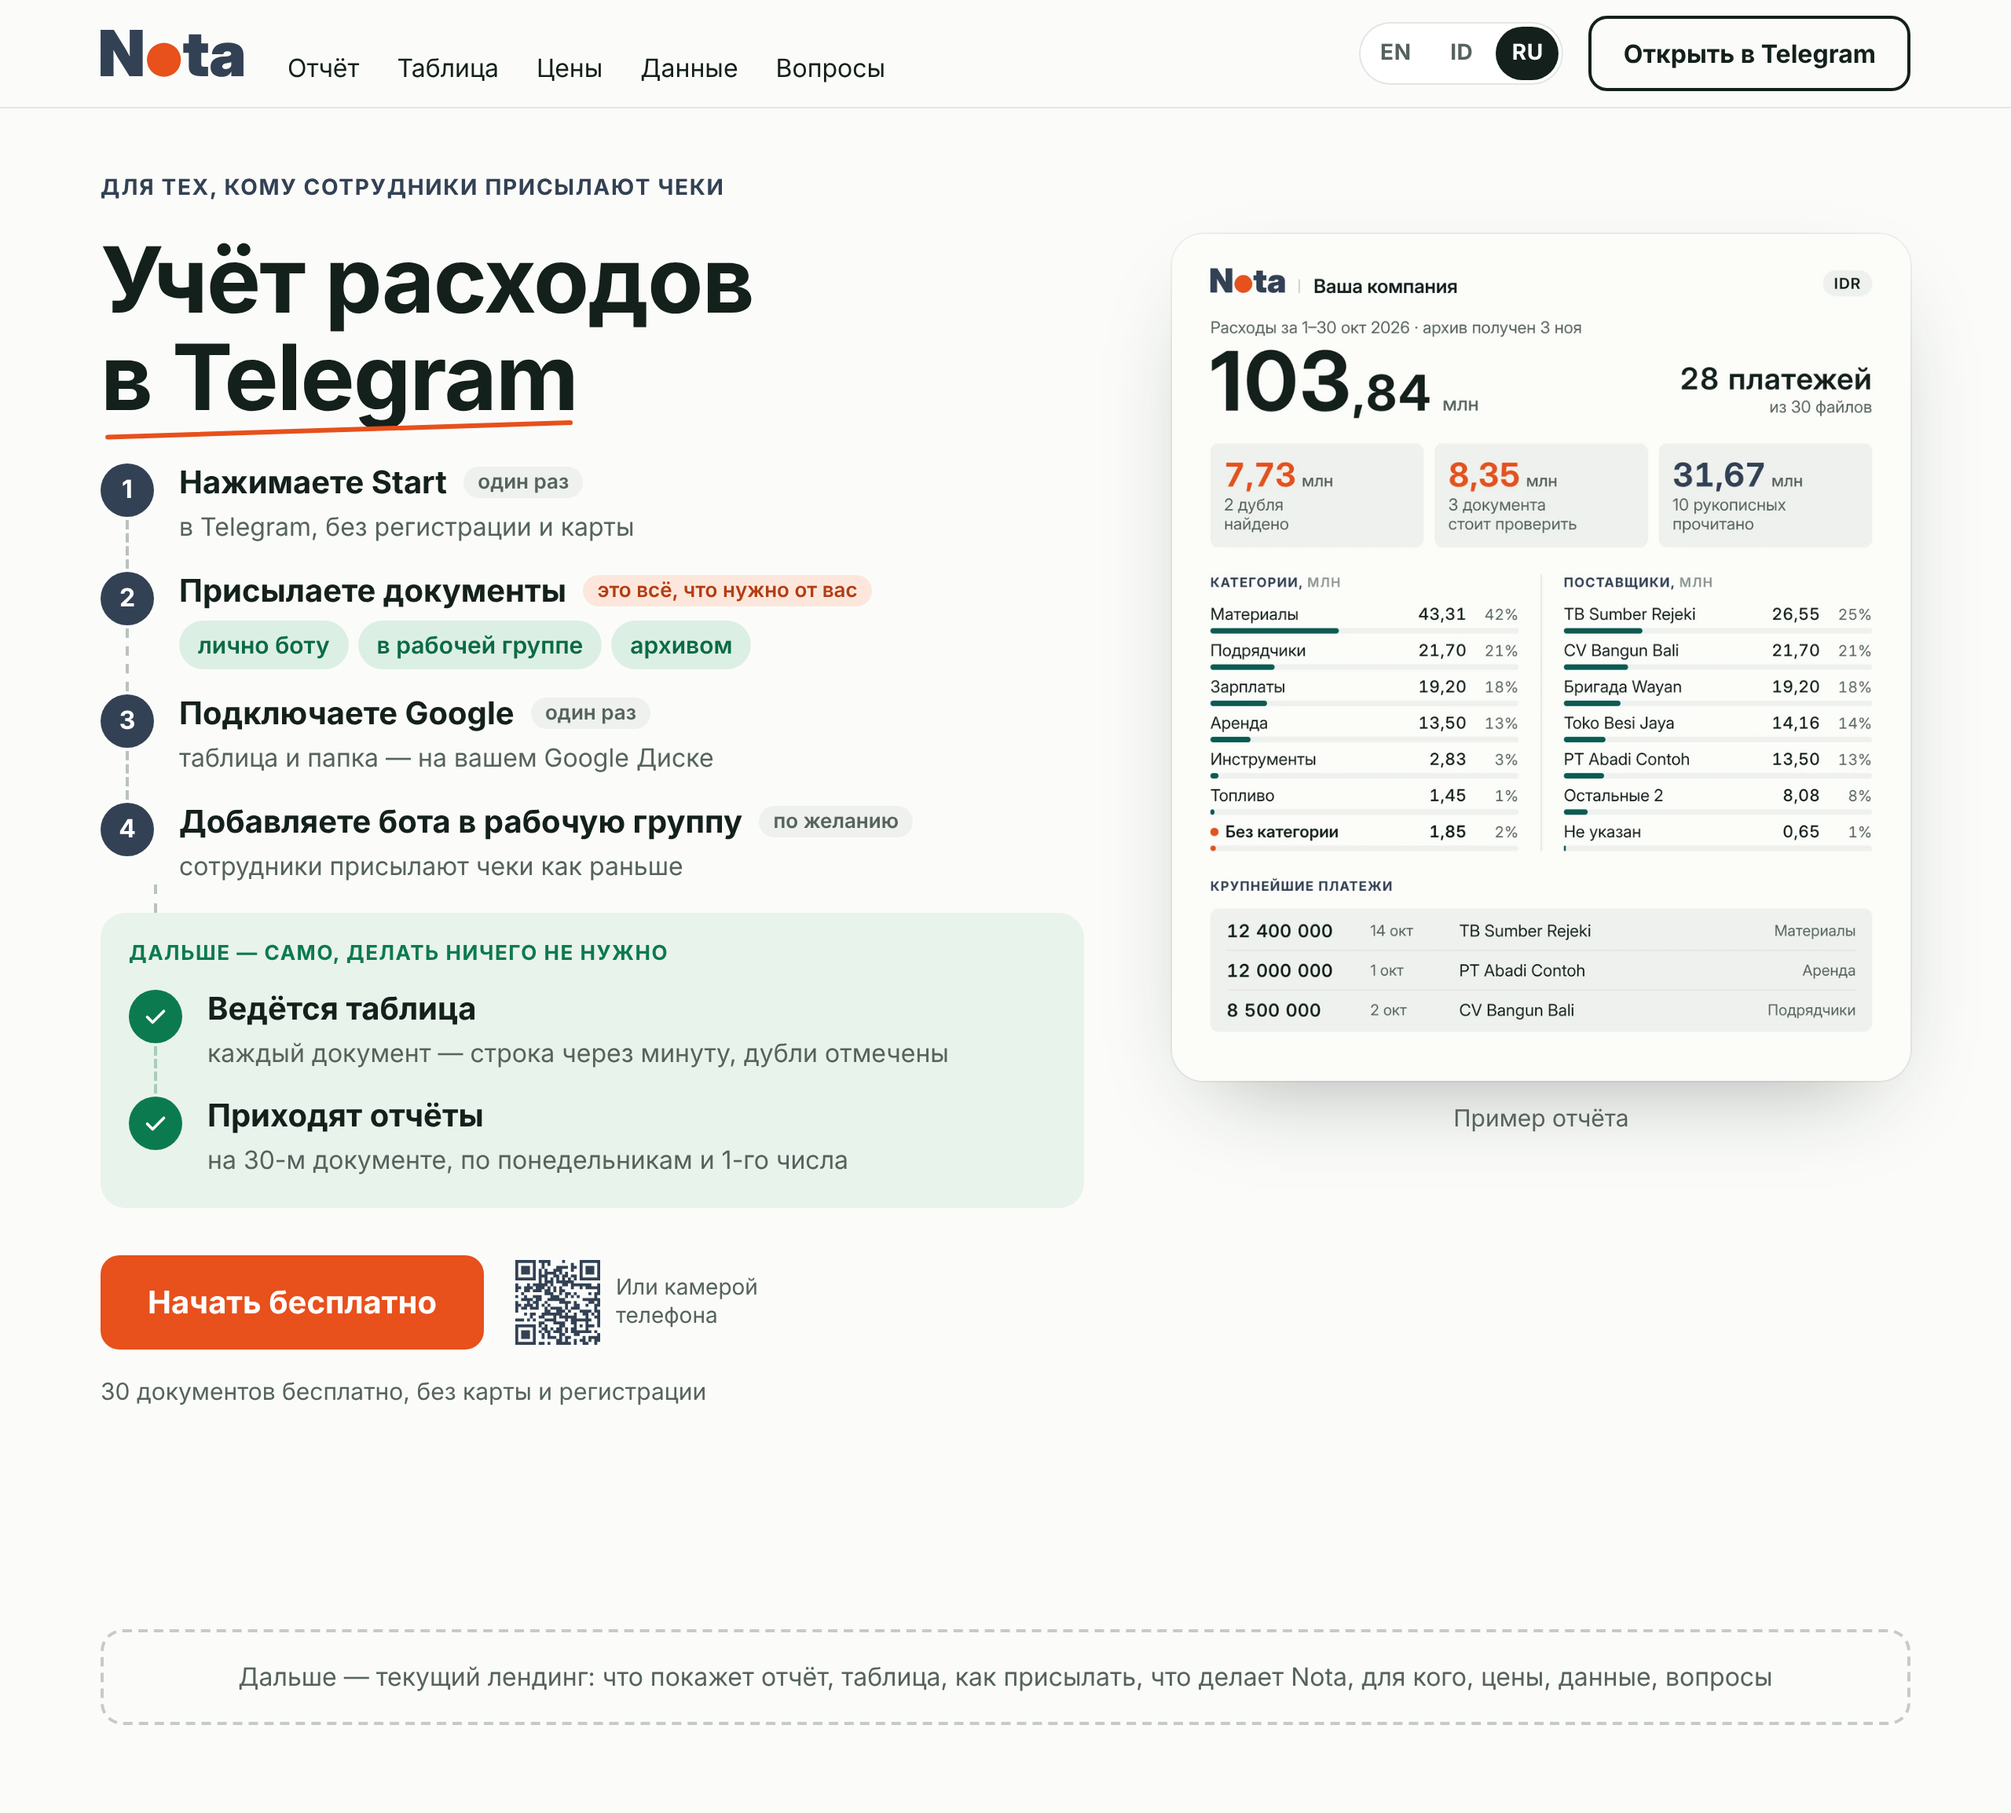
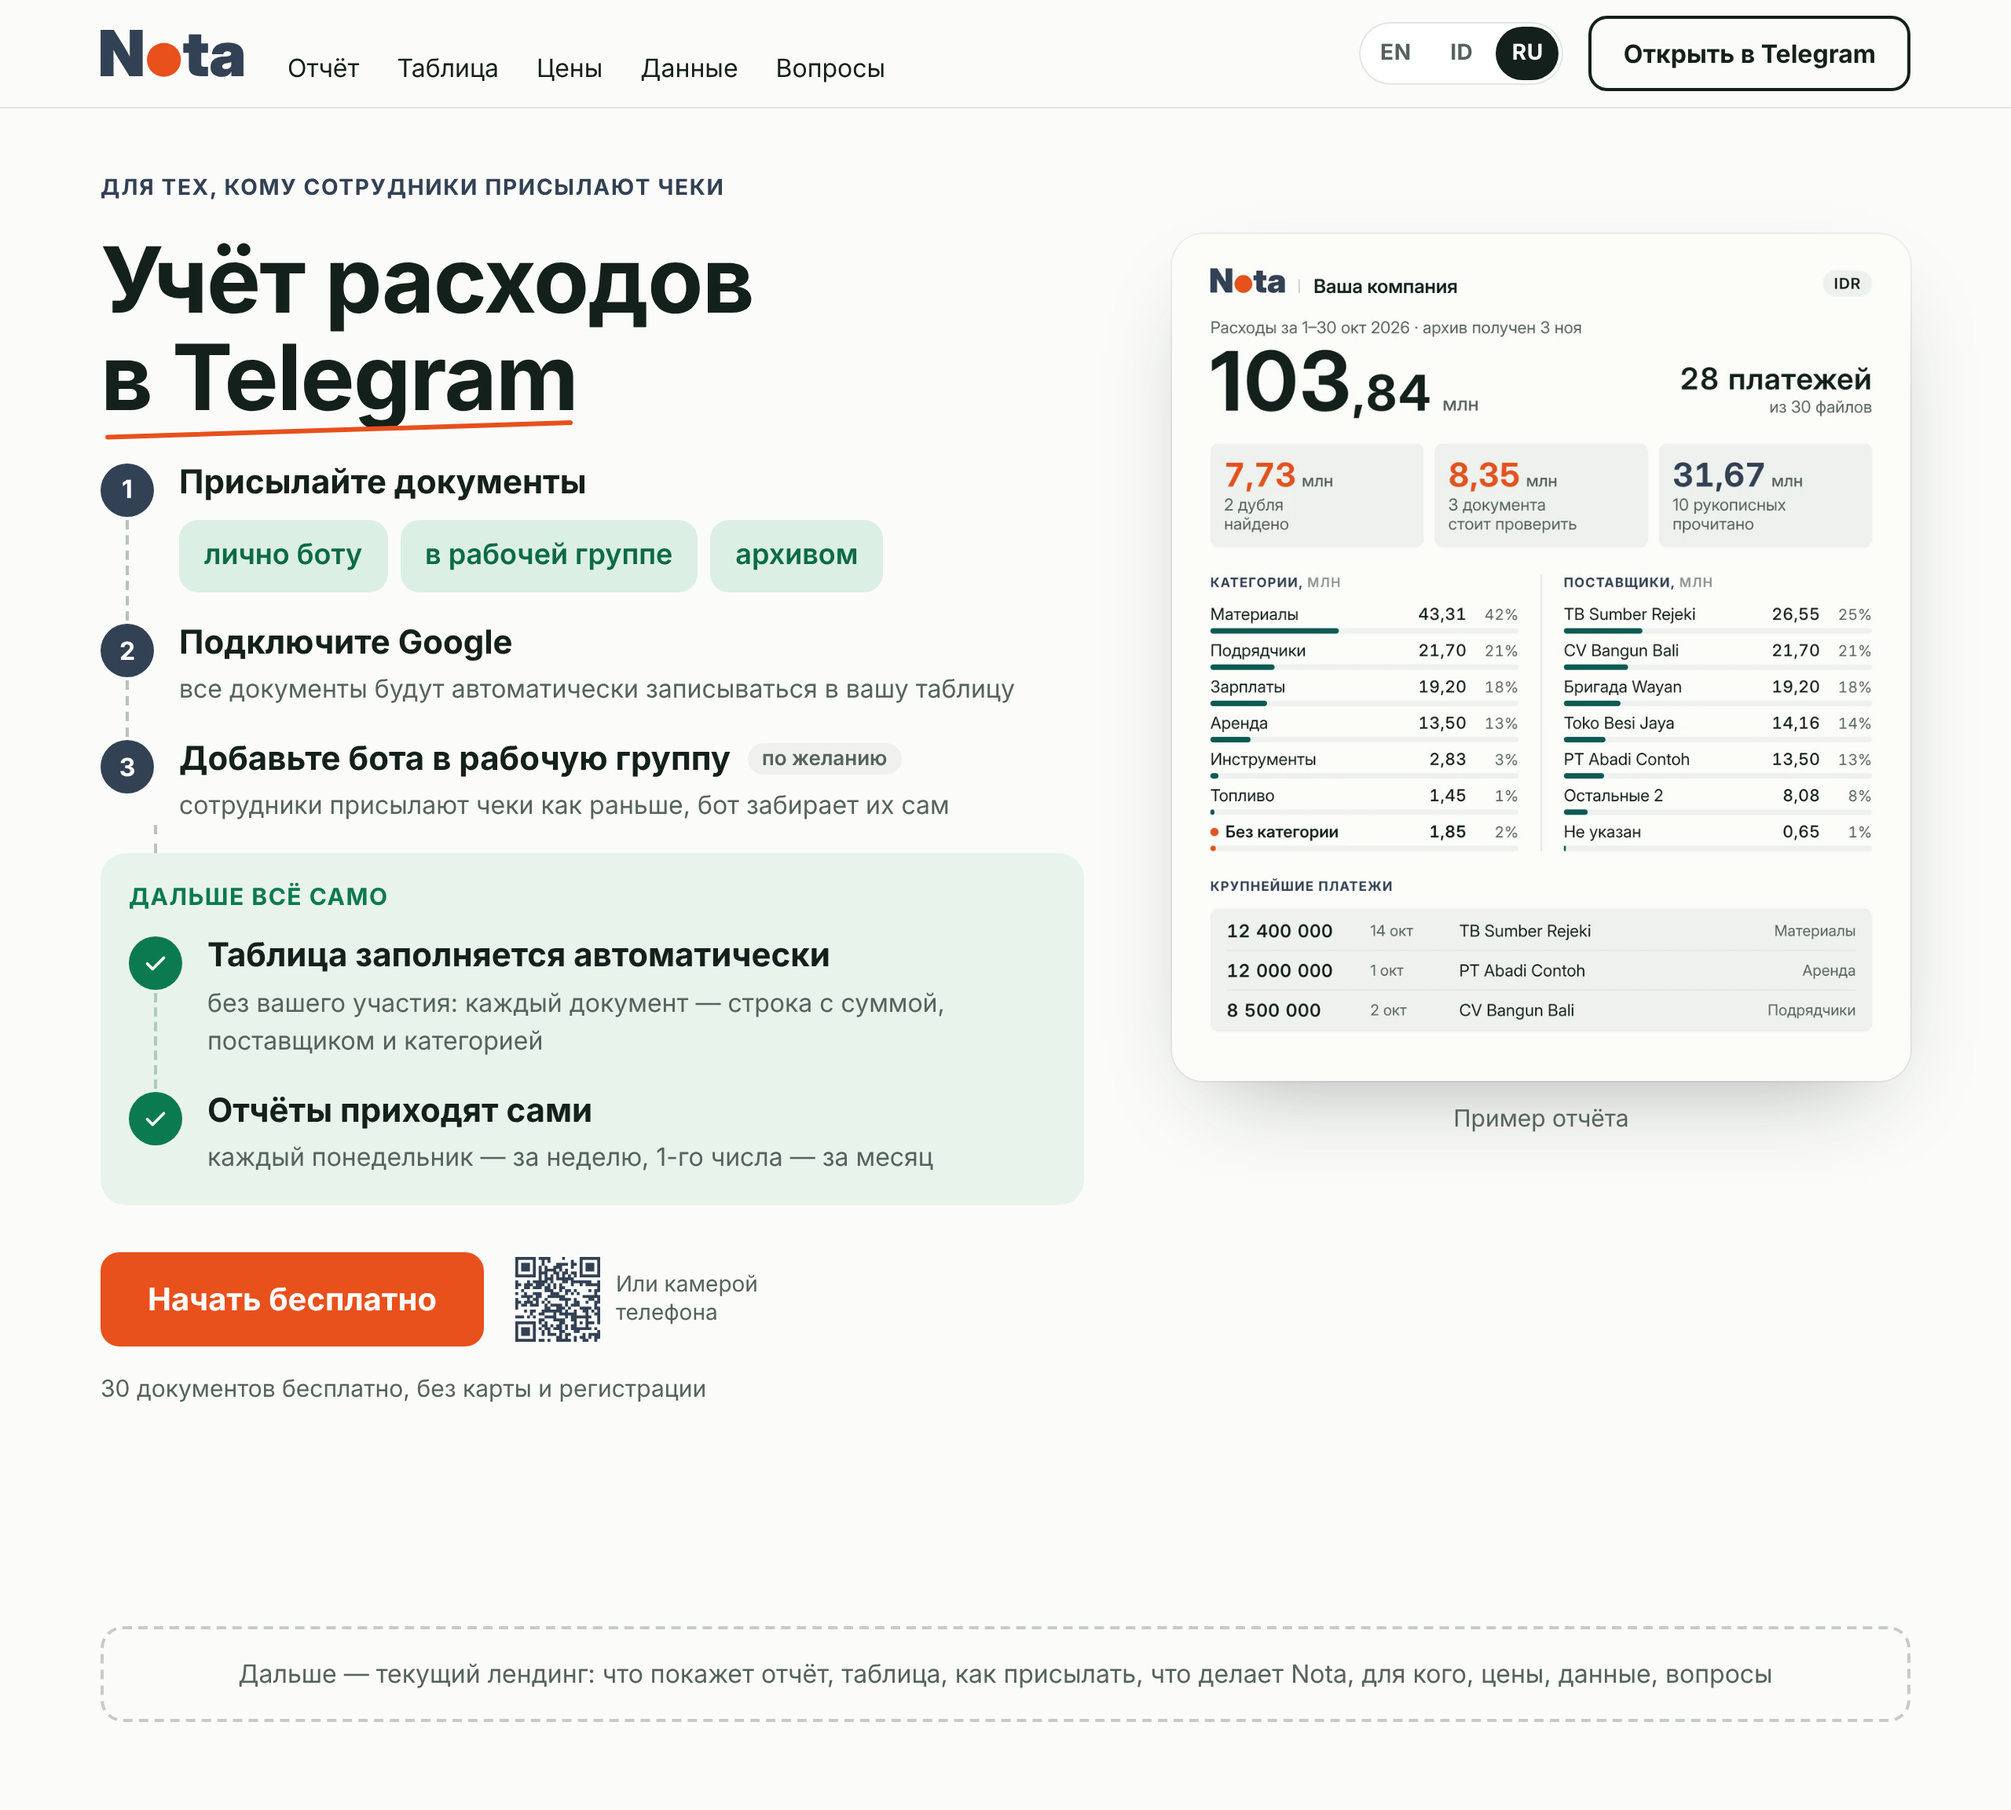
Sketch F: three steps and plain wording for the automatic part
Claude-Session: https://claude.ai/code/session_01L3HhR7LSGwJtypFbeUeh92

diff --git a/founder/landing-start-sketch/f.html b/founder/landing-start-sketch/f.html
@@ -4,7 +4,7 @@
 <div class="mk-left">
 <span class="hero-eyebrow">Для тех, кому сотрудники присылают чеки</span>
 <h1>Учёт расходов <span class="mk-u">в Telegram<svg class="mk-under" viewBox="0 0 200 16" preserveAspectRatio="none" aria-hidden="true"><path d="M3 13C50 11.5 120 8 197 4"/></svg></span></h1>
-<ol class="f-flow"><li><span class="e-n">1</span><div><b>Нажимаете Start <em class="">один раз</em></b><span class="f-d">в Telegram, без регистрации и карты</span></div></li><li><span class="e-n">2</span><div><b>Присылаете документы <em class="f-main">это всё, что нужно от вас</em></b><span class="f-d"><span class="f-chips"><i>лично боту</i><i>в рабочей группе</i><i>архивом</i></span></span></div></li><li><span class="e-n">3</span><div><b>Подключаете Google <em class="">один раз</em></b><span class="f-d">таблица и папка — на вашем Google Диске</span></div></li><li><span class="e-n">4</span><div><b>Добавляете бота в рабочую группу <em class="">по желанию</em></b><span class="f-d">сотрудники присылают чеки как раньше</span></div></li></ol><div class="f-auto"><div class="f-auto-h">Дальше — само, делать ничего не нужно</div><ol class="f-flow"><li><span class="e-n f-ok"><svg viewBox="0 0 24 24" width="18" height="18" aria-hidden="true" fill="none" stroke="currentColor" stroke-width="2.4" stroke-linecap="round" stroke-linejoin="round"><path d="M5 12.5l4.5 4.5L19 7.5"/></svg></span><div><b>Ведётся таблица</b><span class="f-d">каждый документ — строка через минуту, дубли отмечены</span></div></li><li><span class="e-n f-ok"><svg viewBox="0 0 24 24" width="18" height="18" aria-hidden="true" fill="none" stroke="currentColor" stroke-width="2.4" stroke-linecap="round" stroke-linejoin="round"><path d="M5 12.5l4.5 4.5L19 7.5"/></svg></span><div><b>Приходят отчёты</b><span class="f-d">на 30-м документе, по понедельникам и 1-го числа</span></div></li></ol></div>
+<ol class="f-flow"><li><span class="e-n">1</span><div><b>Присылайте документы</b><span class="f-d"><span class="f-chips"><i>лично боту</i><i>в рабочей группе</i><i>архивом</i></span></span></div></li><li><span class="e-n">2</span><div><b>Подключите Google</b><span class="f-d">все документы будут автоматически записываться в вашу таблицу</span></div></li><li><span class="e-n">3</span><div><b>Добавьте бота в рабочую группу <em>по желанию</em></b><span class="f-d">сотрудники присылают чеки как раньше, бот забирает их сам</span></div></li></ol><div class="f-auto"><div class="f-auto-h">Дальше всё само</div><ol class="f-flow"><li><span class="e-n f-ok"><svg viewBox="0 0 24 24" width="18" height="18" aria-hidden="true" fill="none" stroke="currentColor" stroke-width="2.4" stroke-linecap="round" stroke-linejoin="round"><path d="M5 12.5l4.5 4.5L19 7.5"/></svg></span><div><b>Таблица заполняется автоматически</b><span class="f-d">без вашего участия: каждый документ — строка с суммой, поставщиком и категорией</span></div></li><li><span class="e-n f-ok"><svg viewBox="0 0 24 24" width="18" height="18" aria-hidden="true" fill="none" stroke="currentColor" stroke-width="2.4" stroke-linecap="round" stroke-linejoin="round"><path d="M5 12.5l4.5 4.5L19 7.5"/></svg></span><div><b>Отчёты приходят сами</b><span class="f-d">каждый понедельник — за неделю, 1-го числа — за месяц</span></div></li></ol></div>
 <div class="cta-row cta-row--qr"><a class="btn" href="#">Начать бесплатно</a><div class="cta-qr"><img src="http://localhost:4321/screens/qr-bot-v10.svg" alt="" width="54" height="54"><span>Или камерой телефона</span></div></div>
 <p class="cta-line">30 документов бесплатно, без карты и регистрации</p>
 </div>

diff --git a/founder/landing-start-sketch/mk.css b/founder/landing-start-sketch/mk.css
@@ -198,17 +198,17 @@
 .mk-split--f { align-items: start; }
 .mk-split--f .mk-report { margin-top: 40px; }
 .f-flow { list-style: none; margin: 0; padding: 0; }
-.f-flow li { display: flex; gap: 16px; align-items: flex-start; position: relative; padding-bottom: 16px; }
+.f-flow li { display: flex; gap: 16px; align-items: flex-start; position: relative; padding-bottom: 20px; }
 .f-flow li:last-child { padding-bottom: 0; }
 .f-flow li:not(:last-child)::before { content: ''; position: absolute; left: 16px; top: 36px; bottom: 2px; border-left: 2px dashed #b9c2bd; }
-.f-flow b { display: block; font-size: 20px; line-height: 1.25; }
+.f-flow b { display: block; font-size: 21px; line-height: 1.25; }
 .f-flow b em { font-style: normal; font-size: 13px; font-weight: 600; color: var(--muted); background: var(--box); border-radius: 999px; padding: 2px 9px; margin-left: 6px; vertical-align: 3px; white-space: nowrap; }
 .f-d { display: block; font-size: 16px; color: var(--muted); margin-top: 3px; }
-.f-chips { display: flex; flex-wrap: wrap; gap: 6px; margin-top: 6px; }
-.f-chips i { font-style: normal; font-size: 15px; font-weight: 600; color: var(--green-text); background: #dcefe4; border-radius: 999px; padding: 4px 12px; }
+.f-chips { display: flex; flex-wrap: wrap; gap: 8px; margin-top: 10px; }
+.f-chips i { font-style: normal; font-size: 18px; font-weight: 600; color: var(--green-text); background: #dcefe4; border-radius: 12px; padding: 9px 16px; }
 .f-auto { margin: 18px 0 30px; padding: 16px 18px 18px; background: #e8f3ec; border-radius: 16px; position: relative; }
 .f-auto::before { content: ''; position: absolute; left: 34px; top: -18px; height: 18px; border-left: 2px dashed #b9c2bd; }
-.f-auto-h { font-size: 13px; font-weight: 700; letter-spacing: .06em; text-transform: uppercase; color: var(--green); margin-bottom: 12px; }
+.f-auto-h { font-size: 15px; font-weight: 700; letter-spacing: .05em; text-transform: uppercase; color: var(--green); margin-bottom: 14px; }
 .f-ok { background: var(--green) !important; }
 .f-auto .f-flow li:not(:last-child)::before { border-left-color: #a9cdb7; }
 @media (max-width: 900px) { .f-flow b { font-size: 18px; } .f-flow b em { display: inline-block; margin: 4px 0 0; } .mk-split--f .mk-report { margin-top: 0; } }

diff --git a/founder/landing-start-sketch/build.py b/founder/landing-start-sketch/build.py
@@ -247,19 +247,18 @@ E = page('e', 'Вариант E — учёт расходов в Telegram', e_he
 # ---------- Вариант F: путь основателя (21.11). Вы делаете 1–4, дальше само 5–6. От вас — только чеки ----------
 CHIPS = '<span class="f-chips"><i>лично боту</i><i>в рабочей группе</i><i>архивом</i></span>'
 F_YOU = [
-    ('Нажимаете Start', 'один раз', 'в Telegram, без регистрации и карты'),
-    ('Присылаете документы', 'это всё, что нужно от вас', CHIPS),
-    ('Подключаете Google', 'один раз', 'таблица и папка — на вашем Google Диске'),
-    ('Добавляете бота в рабочую группу', 'по желанию', 'сотрудники присылают чеки как раньше'),
+    ('Присылайте документы', '', CHIPS),
+    ('Подключите Google', '', 'все документы будут автоматически записываться в вашу таблицу'),
+    ('Добавьте бота в рабочую группу', 'по желанию', 'сотрудники присылают чеки как раньше, бот забирает их сам'),
 ]
 F_AUTO = [
-    ('Ведётся таблица', 'каждый документ — строка через минуту, дубли отмечены'),
-    ('Приходят отчёты', 'на 30-м документе, по понедельникам и 1-го числа'),
+    ('Таблица заполняется автоматически', 'без вашего участия: каждый документ — строка с суммой, поставщиком и категорией'),
+    ('Отчёты приходят сами', 'каждый понедельник — за неделю, 1-го числа — за месяц'),
 ]
 CHK = '<svg viewBox="0 0 24 24" width="18" height="18" aria-hidden="true" fill="none" stroke="currentColor" stroke-width="2.4" stroke-linecap="round" stroke-linejoin="round"><path d="M5 12.5l4.5 4.5L19 7.5"/></svg>'
 f_flow = '<ol class="f-flow">' + ''.join(
-    f'<li><span class="e-n">{i}</span><div><b>{a}{f' <em class="{"f-main" if i == 2 else ""}">{tag}</em>' if tag else ""}</b><span class="f-d">{d}</span></div></li>' for i, (a, tag, d) in enumerate(F_YOU, 1)) + '</ol>' + \
-    '<div class="f-auto"><div class="f-auto-h">Дальше — само, делать ничего не нужно</div><ol class="f-flow">' + ''.join(
+    f'<li><span class="e-n">{i}</span><div><b>{a}{f' <em>{tag}</em>' if tag else ""}</b><span class="f-d">{d}</span></div></li>' for i, (a, tag, d) in enumerate(F_YOU, 1)) + '</ol>' + \
+    '<div class="f-auto"><div class="f-auto-h">Дальше всё само</div><ol class="f-flow">' + ''.join(
     f'<li><span class="e-n f-ok">{CHK}</span><div><b>{a}</b><span class="f-d">{d}</span></div></li>' for a, d in F_AUTO) + '</ol></div>'
 f_hero = f"""<section class="hero mk-hero mk-hero--e"><div class="wrap mk-split mk-split--f">
 <div class="mk-left">
